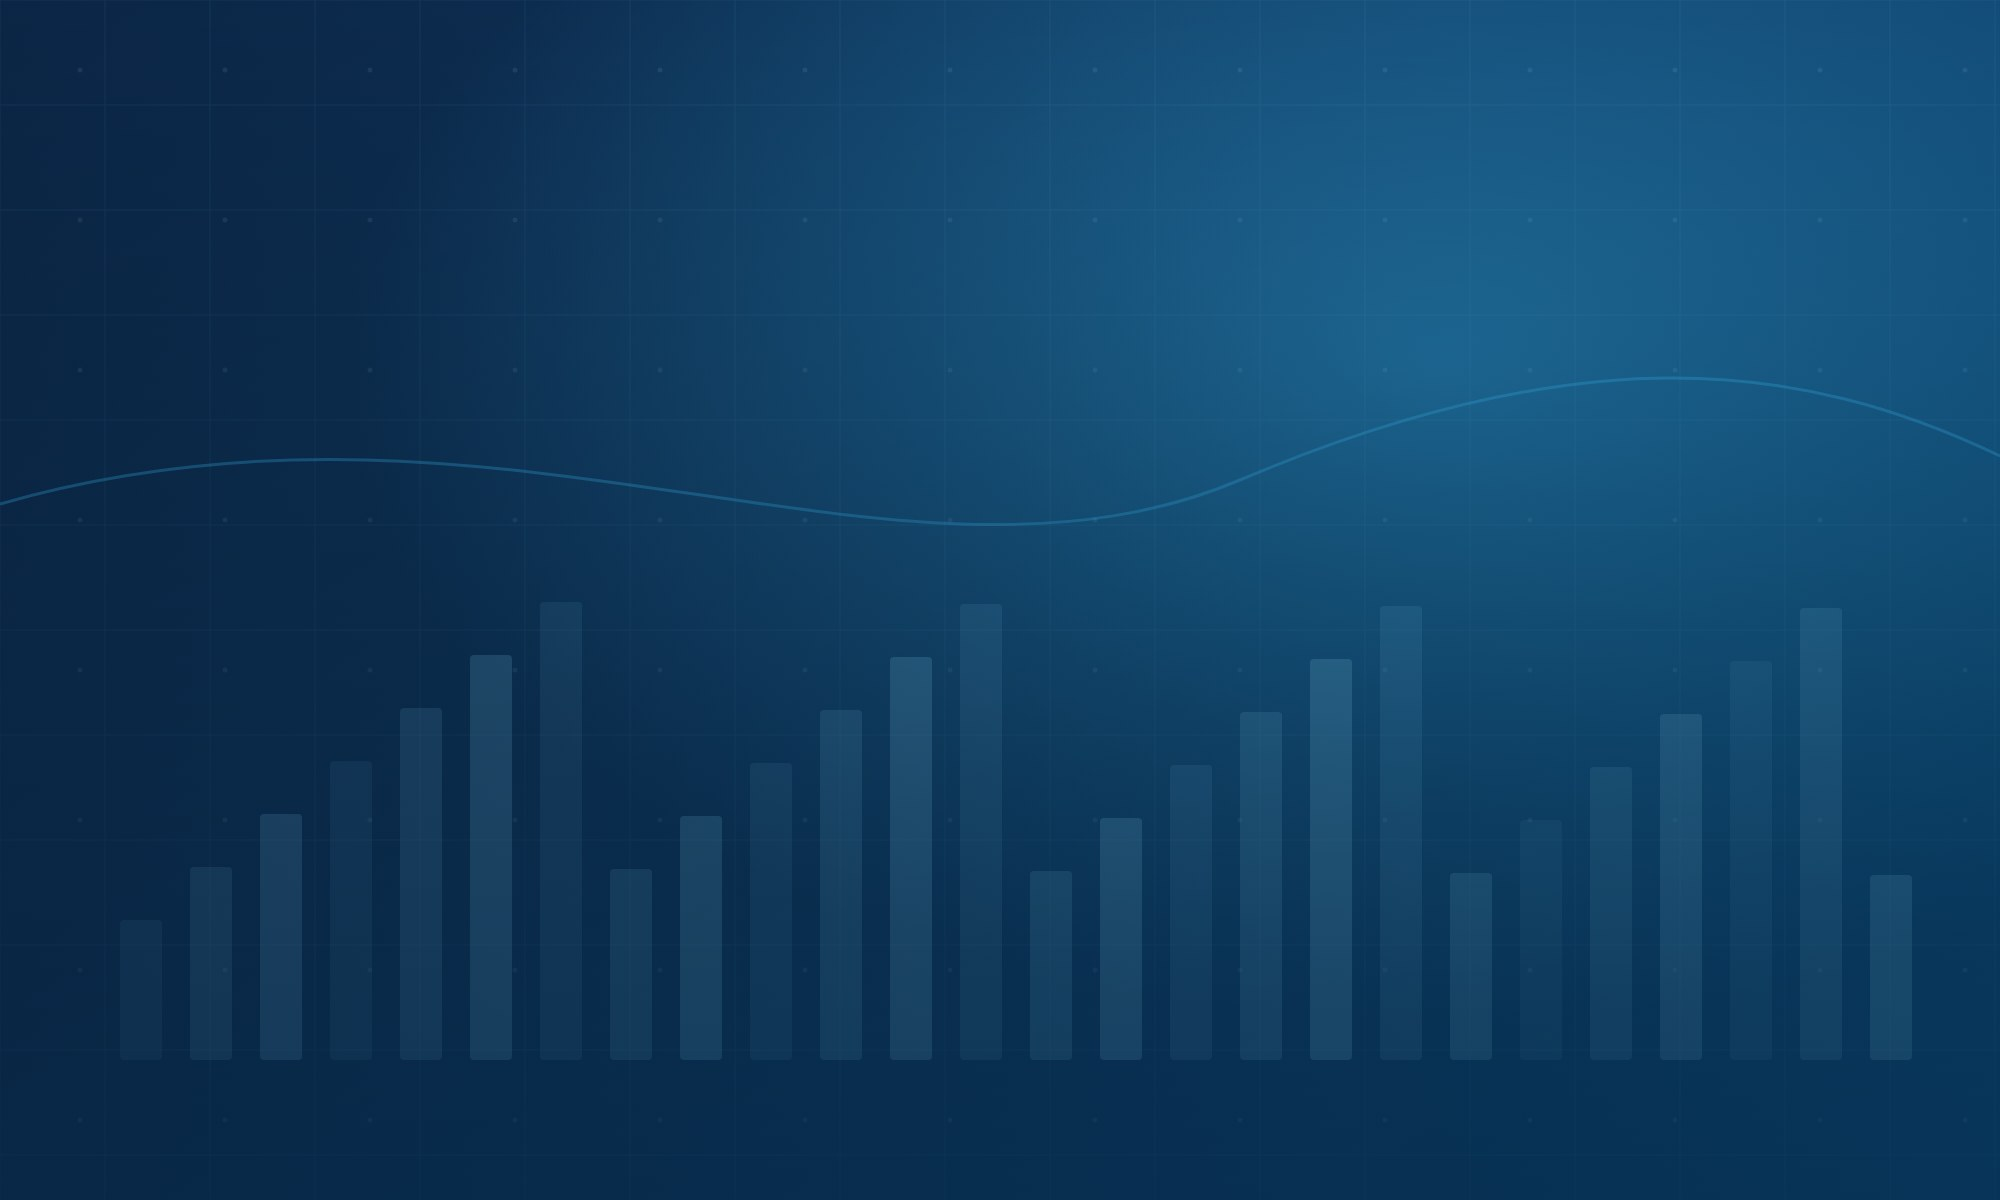
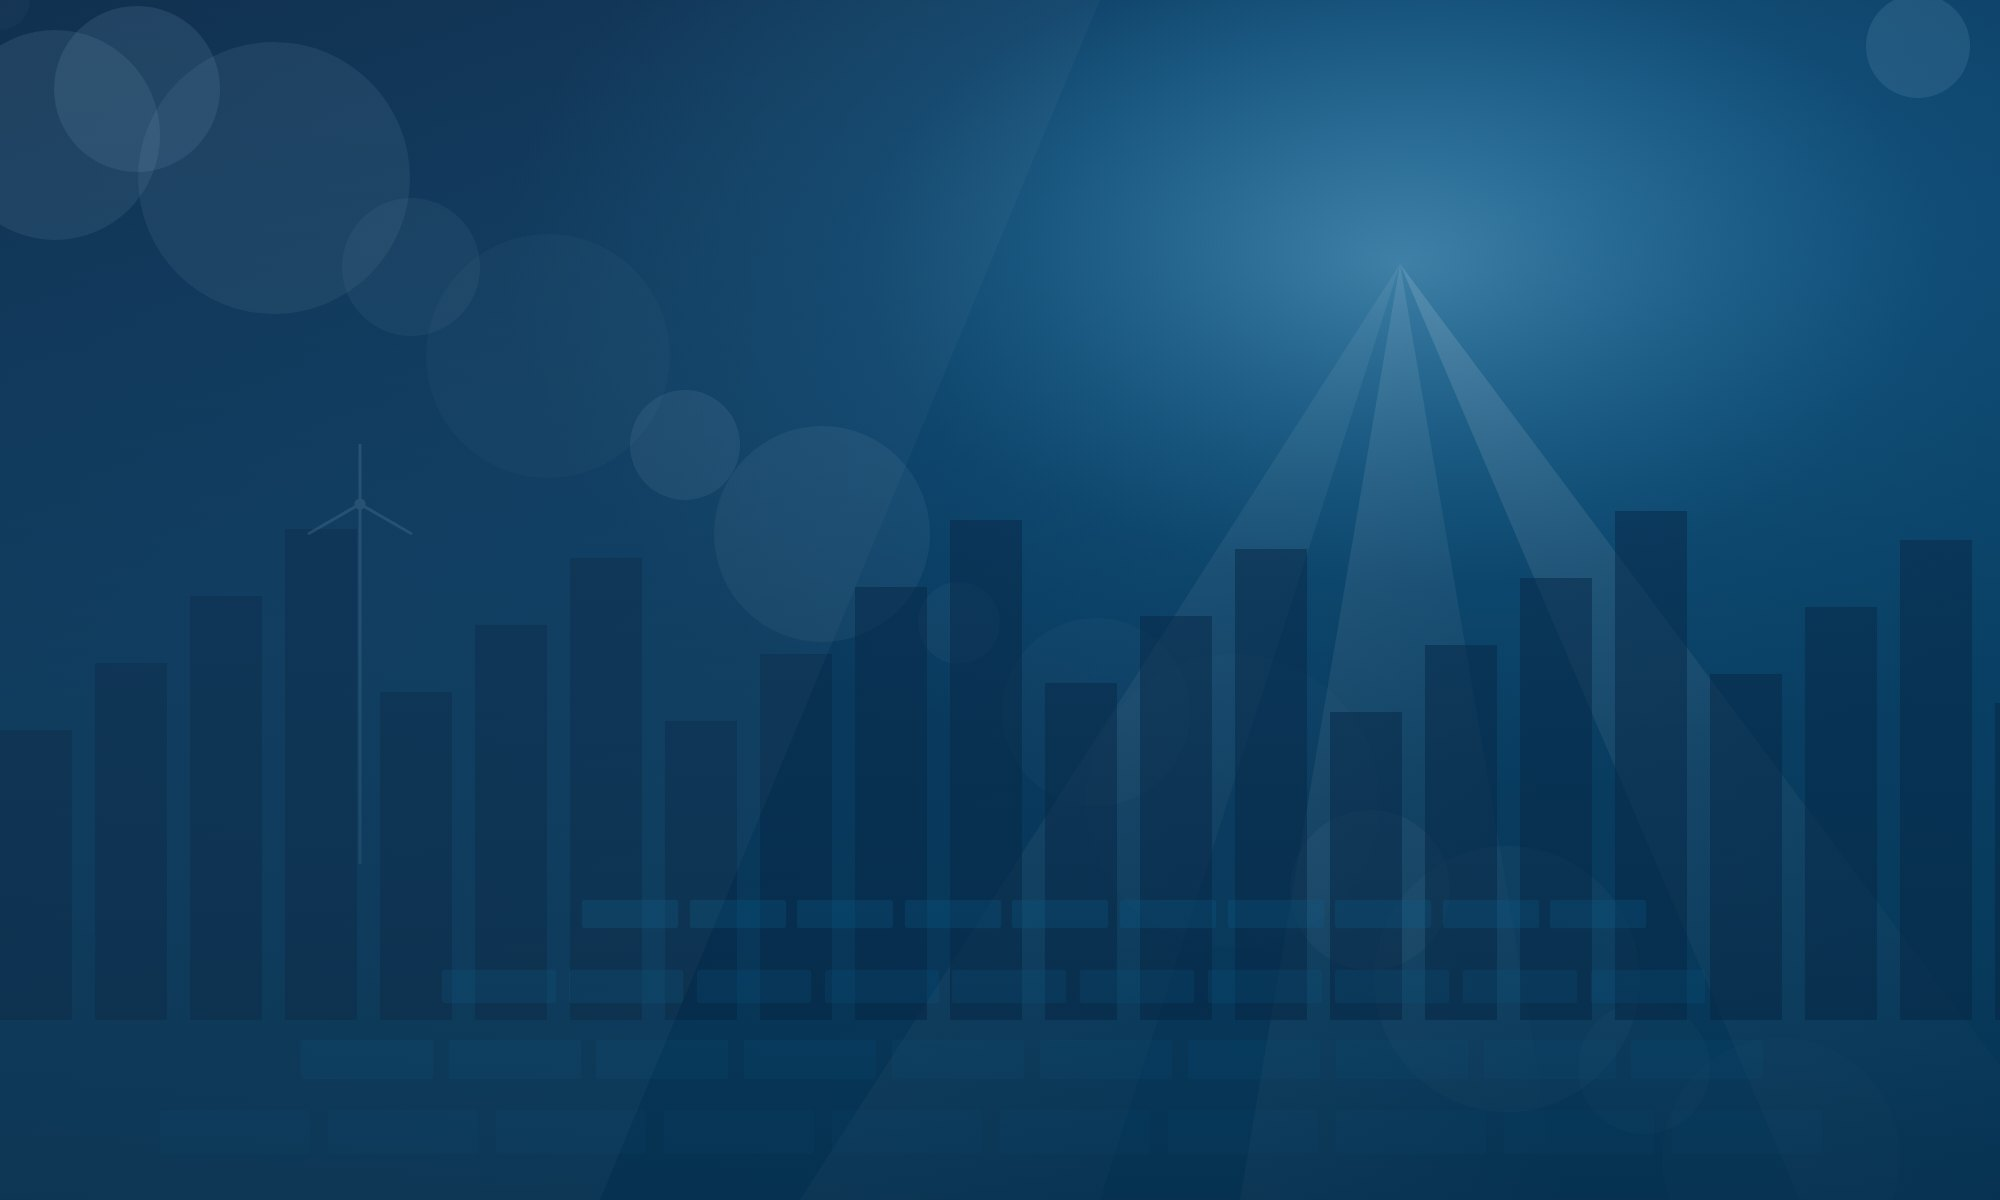
Upgrade hero backdrop to premium corporate composition + tune scrim
- Richer placeholder: solar array, skyline, wind turbine, light rays, bokeh
- Lighten hero scrim so the photo reads while center stays bright for legible text
- No UI color-token changes (hero imagery only)

diff --git a/apps/web/src/components/home/Hero.tsx b/apps/web/src/components/home/Hero.tsx
@@ -51,9 +51,9 @@ export default function Hero() {
                     className="object-cover"
                     sizes="100vw"
                 />
-                {/* Light corporate scrim — keeps it bright/white-forward, text legible */}
-                <div className="absolute inset-0" style={{ background: 'linear-gradient(180deg, rgba(255,255,255,0.90) 0%, rgba(255,255,255,0.80) 45%, rgba(255,255,255,0.88) 100%)' }} />
-                <div className="absolute inset-0" style={{ background: 'radial-gradient(ellipse 60% 55% at 50% 42%, rgba(255,255,255,0.7), transparent 75%)' }} />
+                {/* Light corporate scrim — bright/white-forward but lets the photo read */}
+                <div className="absolute inset-0" style={{ background: 'linear-gradient(180deg, rgba(255,255,255,0.82) 0%, rgba(255,255,255,0.66) 45%, rgba(255,255,255,0.80) 100%)' }} />
+                <div className="absolute inset-0" style={{ background: 'radial-gradient(ellipse 62% 58% at 50% 44%, rgba(255,255,255,0.88), rgba(255,255,255,0.25) 70%, transparent 85%)' }} />
                 {/* bottom fade into next section */}
                 <div className="absolute bottom-0 left-0 right-0 h-28 bg-gradient-to-t from-white to-transparent" />
             </div>
